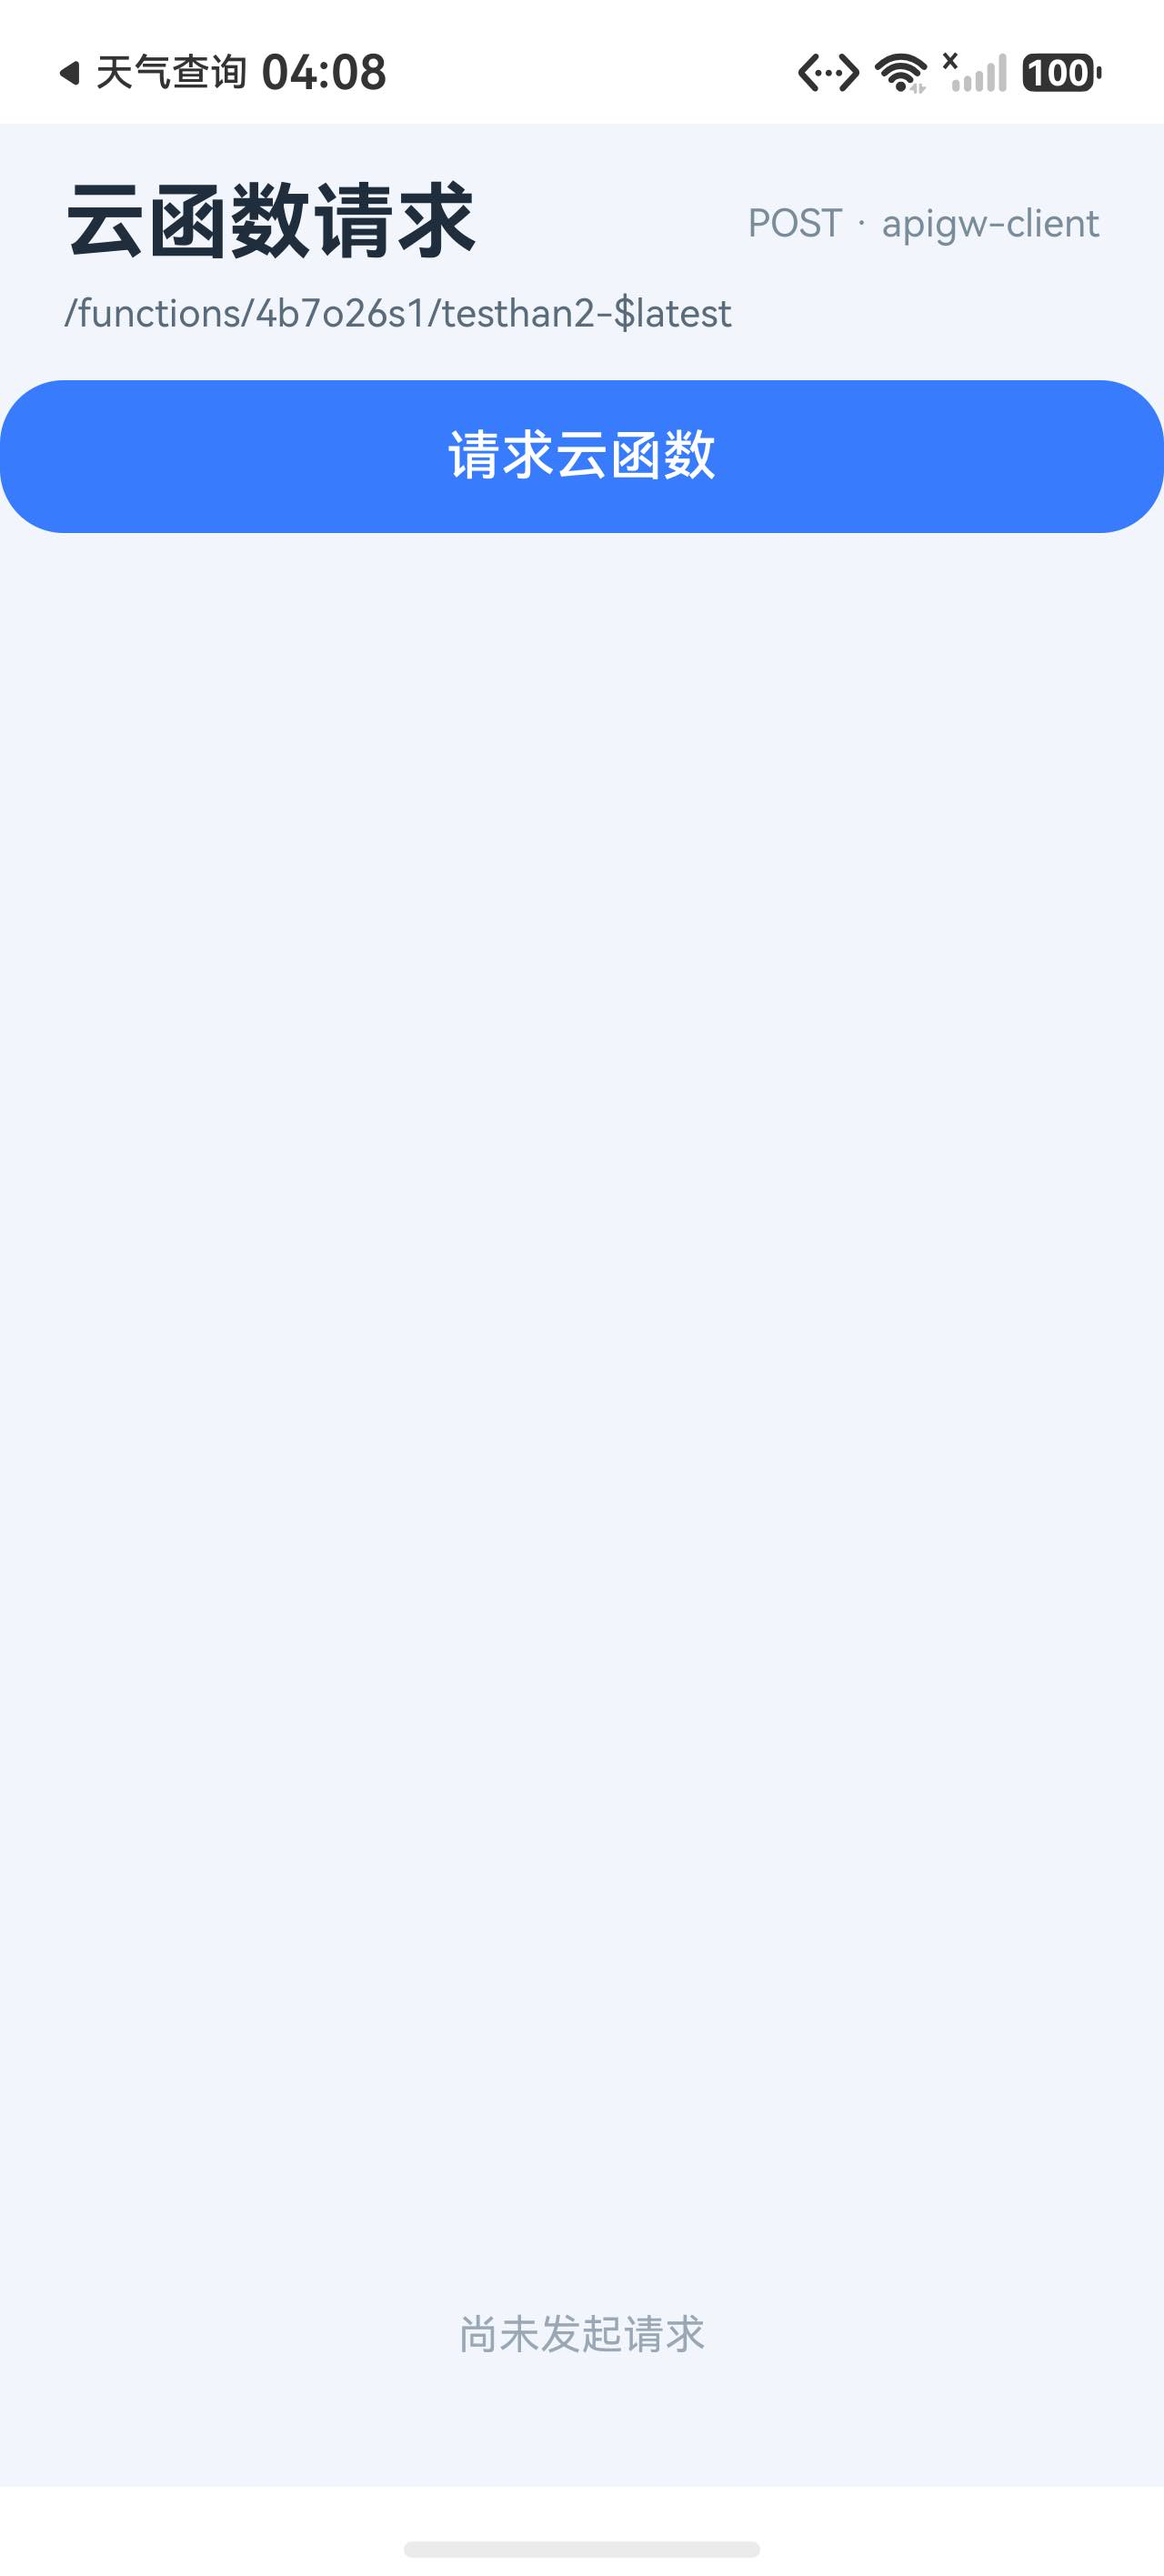
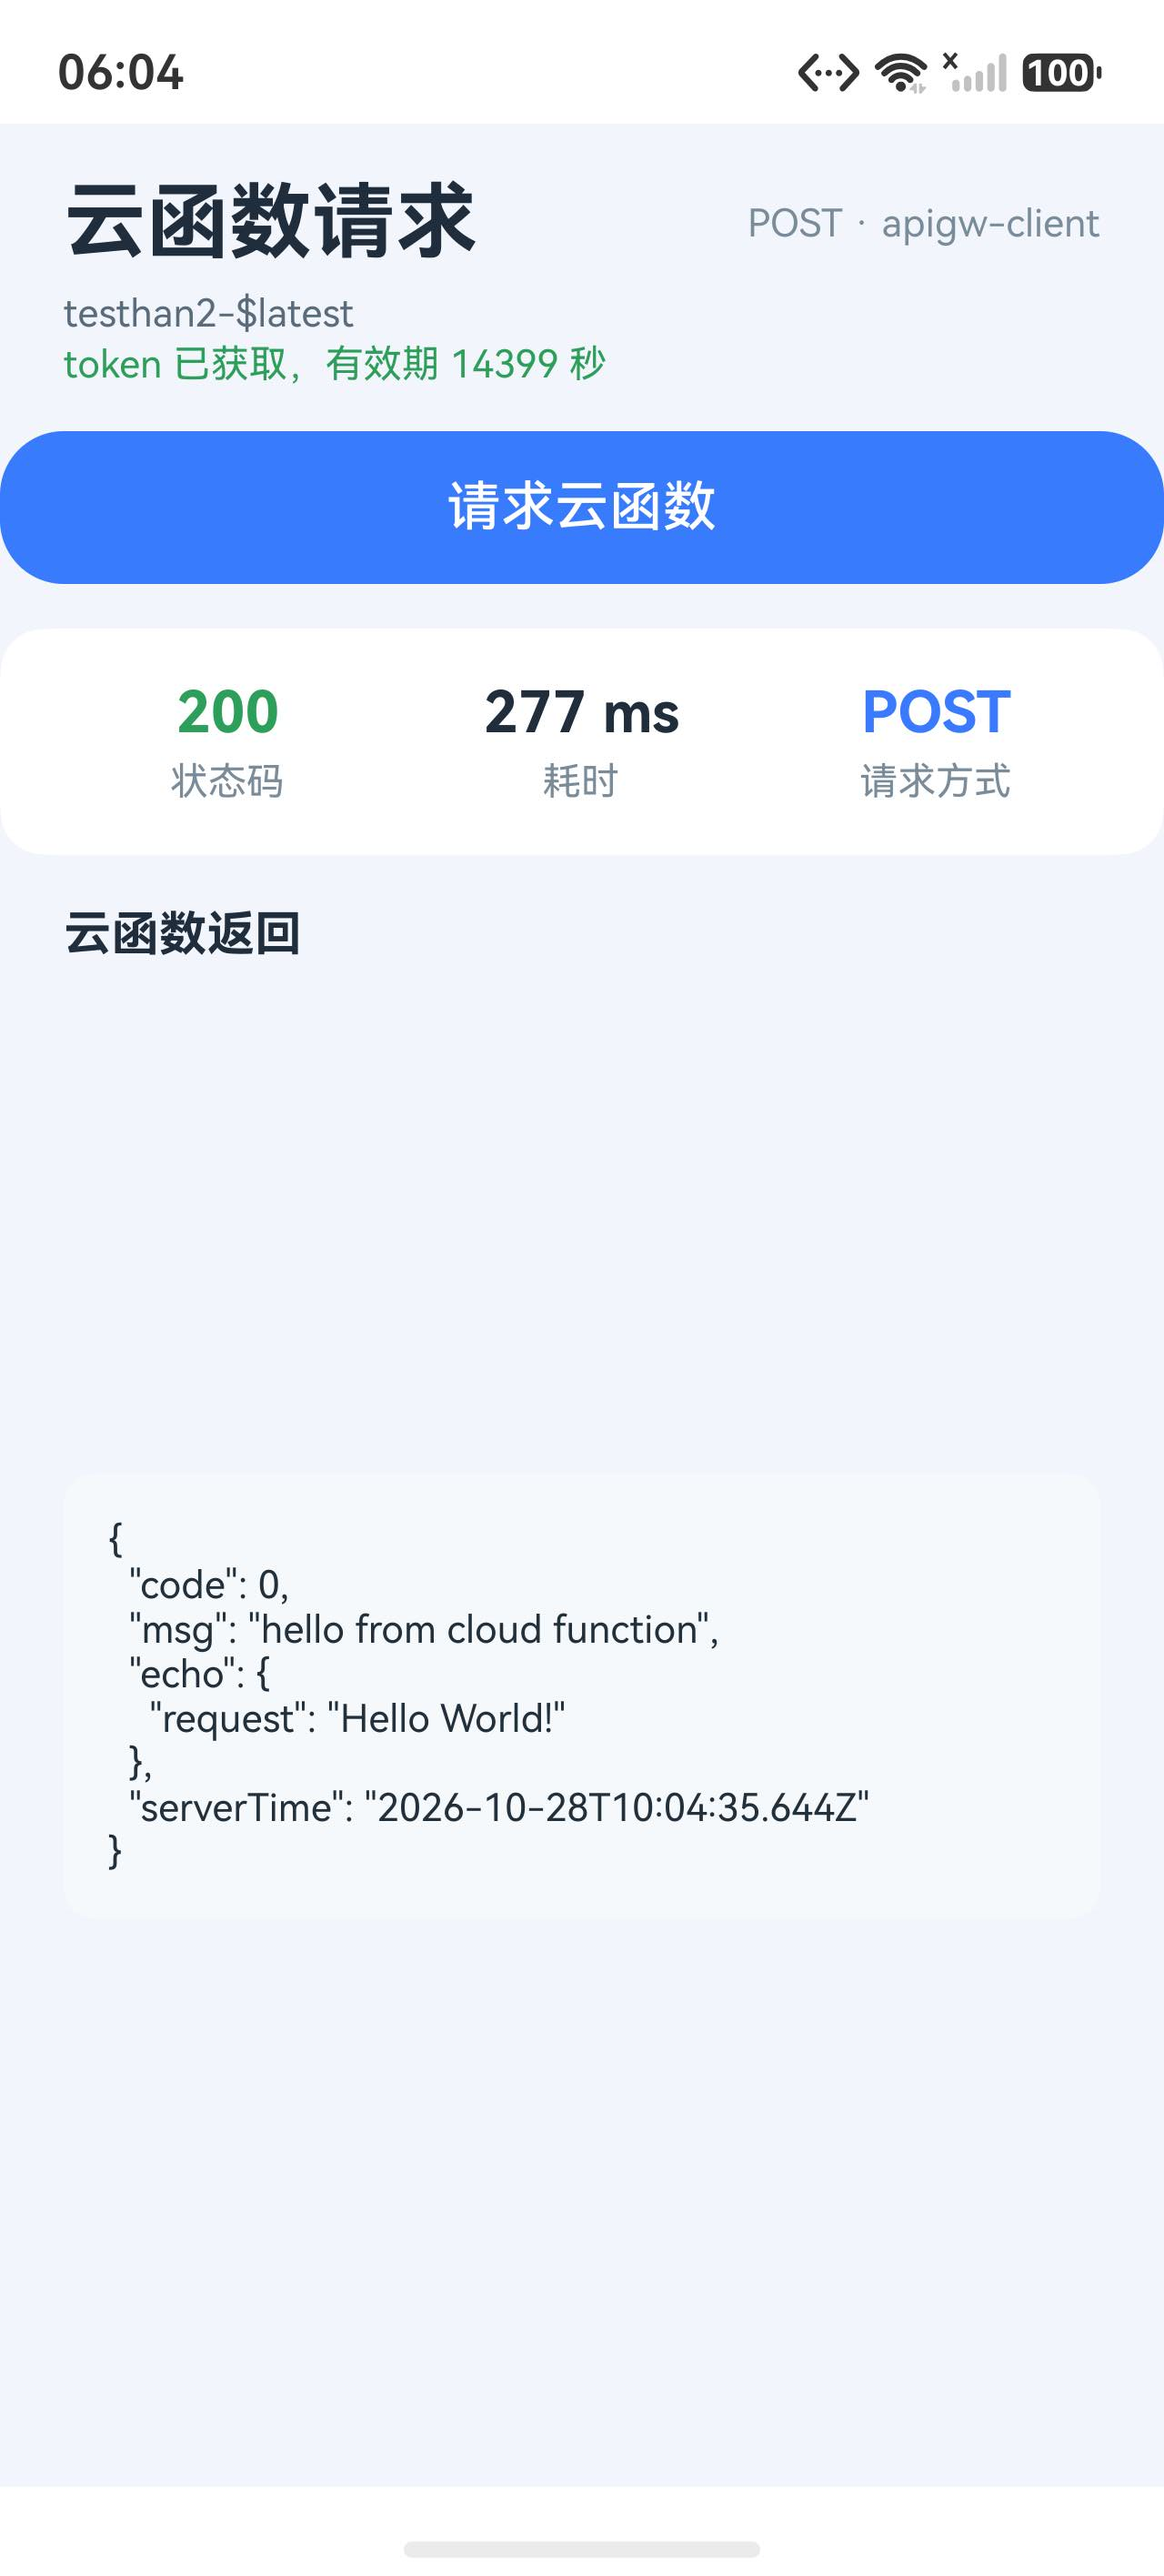
feat: cloud function call works end-to-end (reverse-engineered AGC gateway protocol)

diff --git a/README.md b/README.md
@@ -139,3 +139,68 @@ Copy-Item build-profile.signed.bak build-profile.json5 -Force
 ```
 
 之前控制台报 `Cannot find module '/dcache/layer/func/index.js'`，说明函数体没有上传成功，必须先解决这一步。
+---
+
+## 【已打通】云函数真实调用链路（逆向 AGC 官方 SDK 得到）
+
+AGC 新版控制台的「触发URL」只给相对路径，真实公网地址需要按官方 `@hw-agconnect/cloud` SDK 的规则拼装。
+以下参数已在本项目实测跑通（模拟器 → HTTP 200 → `{"code":0,...}`）：
+
+| 项 | 值 |
+|---|---|
+| 网关域名 | `https://connect-drcn.dbankcloud.cn`（= agconnect-services.json 里的 `agcgw.url`） |
+| 触发路径 | `/agc/apigw/wisefunction/functions/4b7o26s1/testhan2-$latest` |
+| 取 token | `POST /agc/apigw/oauth2/v1/token` |
+| appId 算法 | `base36(sha256("agc:<cp_id>@<product_id>"))` 取前 8 位 → `4b7o26s1` |
+
+### 取 token
+
+```
+POST https://connect-drcn.dbankcloud.cn/agc/apigw/oauth2/v1/token
+Content-Type: application/json;charset=UTF-8
+
+{
+  "grant_type": "client_credentials",
+  "client_id": "<应用客户端ID>",
+  "client_secret": "<应用客户端密钥>",
+  "useJwt": 1
+}
+```
+
+### 调用函数
+
+```
+POST https://connect-drcn.dbankcloud.cn/agc/apigw/wisefunction/functions/4b7o26s1/testhan2-$latest
+Authorization: Bearer <access_token>
+client_id:     <应用客户端ID>
+appId:         6917620261826369552
+productId:     101653523865475304
+sdkServiceName: agconnect-cloud
+sdkVersion:    1.0.2
+sdkPlatform:   OpenHarmony
+sdkType:       TS
+packageName:   com.example.cfapp
+Content-Type:  application/json;charset=UTF-8
+
+{"request":"Hello World!"}
+```
+
+**注意**：缺任何一个身份头都会返回 `401 {"ret":{"code":205524993,"msg":"client token auth failed"}}`。
+
+### 实测结果
+
+```json
+{
+  "code": 0,
+  "msg": "hello from cloud function",
+  "echo": { "request": "Hello World!" },
+  "serverTime": "2026-10-28T10:04:35.644Z"
+}
+```
+
+页面展示：状态码 `200`、耗时 `277 ms`、token 有效期 `14399 秒`、返回 JSON 格式化后滚动显示。
+
+### ⚠ 安全提醒
+
+`CLIENT_ID` / `CLIENT_SECRET` 目前**写死在 `CloudConfig.ets` 里**（课堂作业为了方便直接可跑）。
+本仓库是公开的，课后建议到 AGC 重建一次 API 客户端并作废该密钥。
